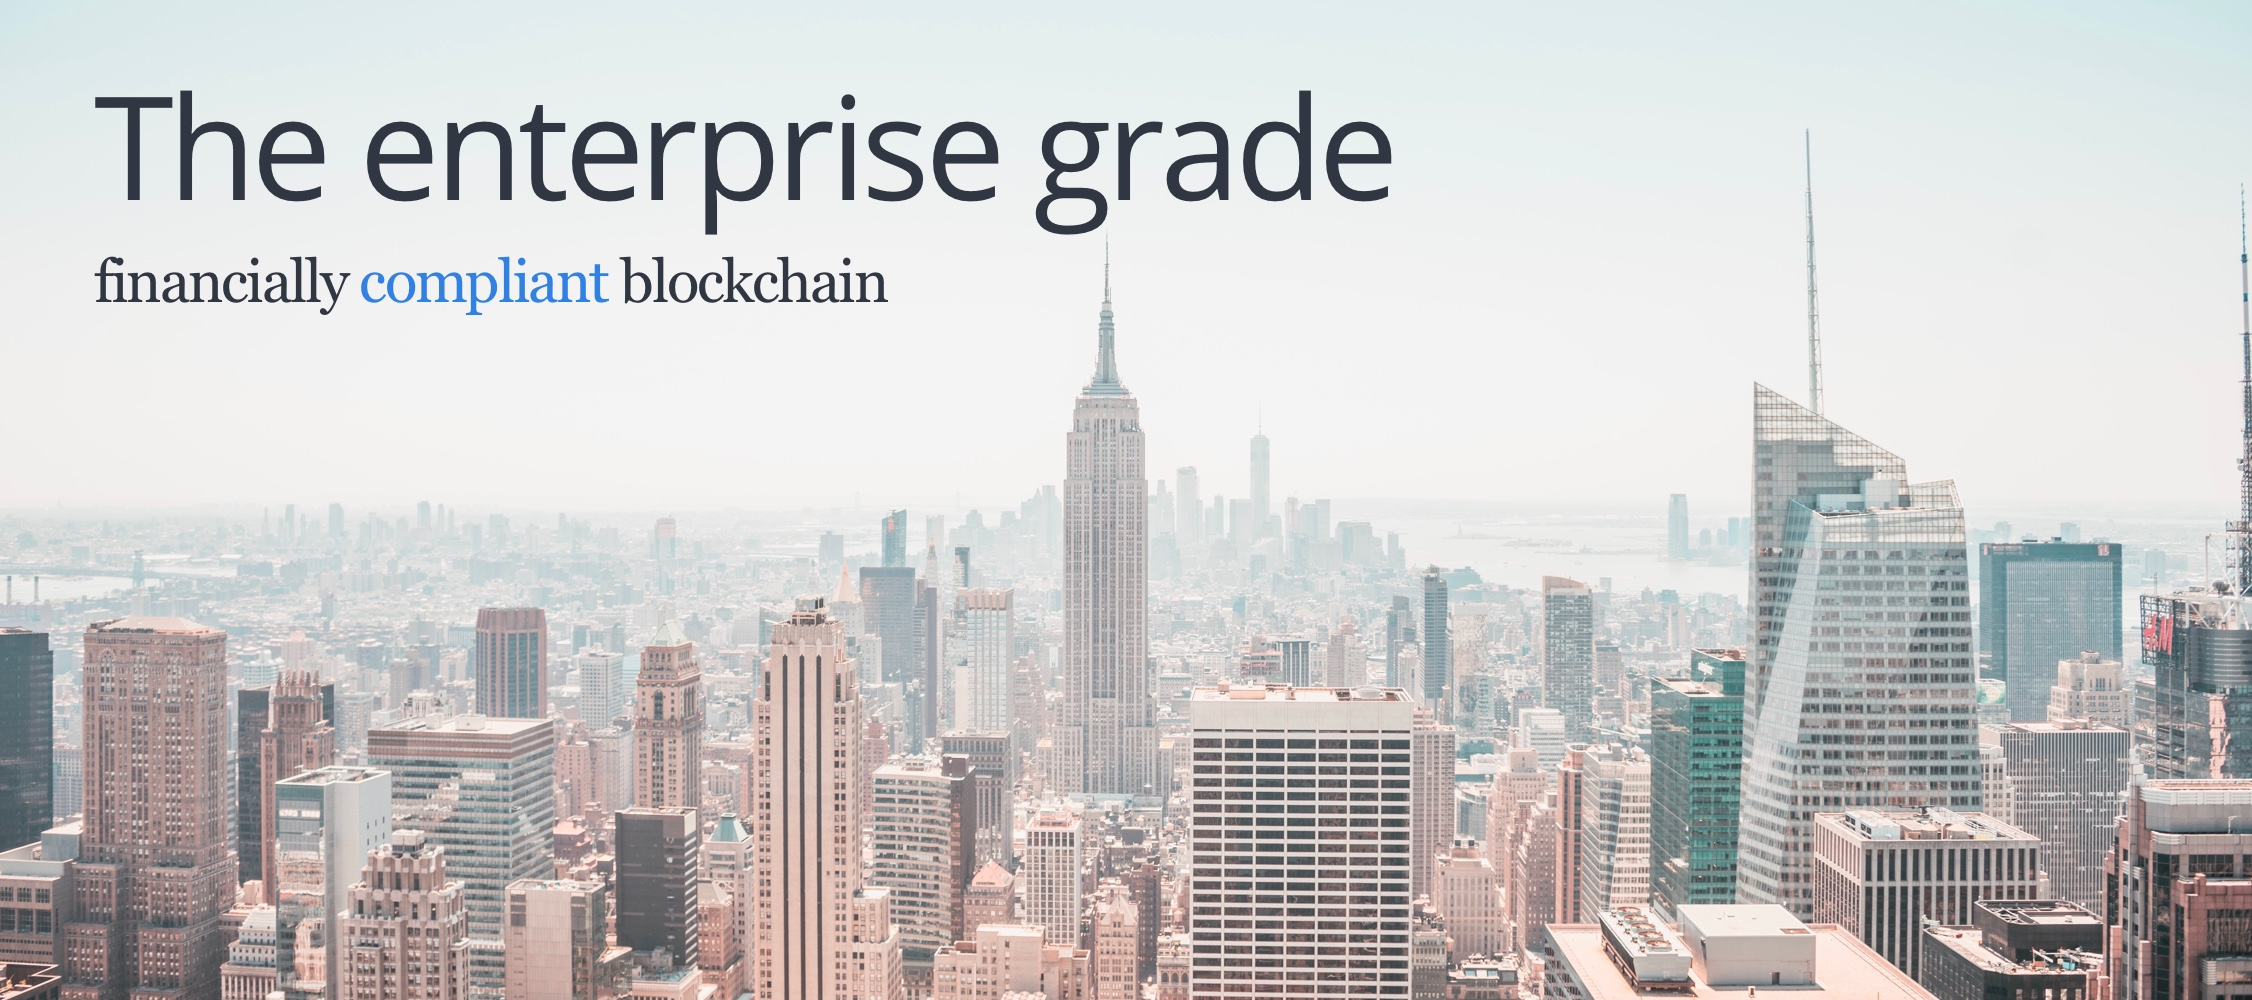
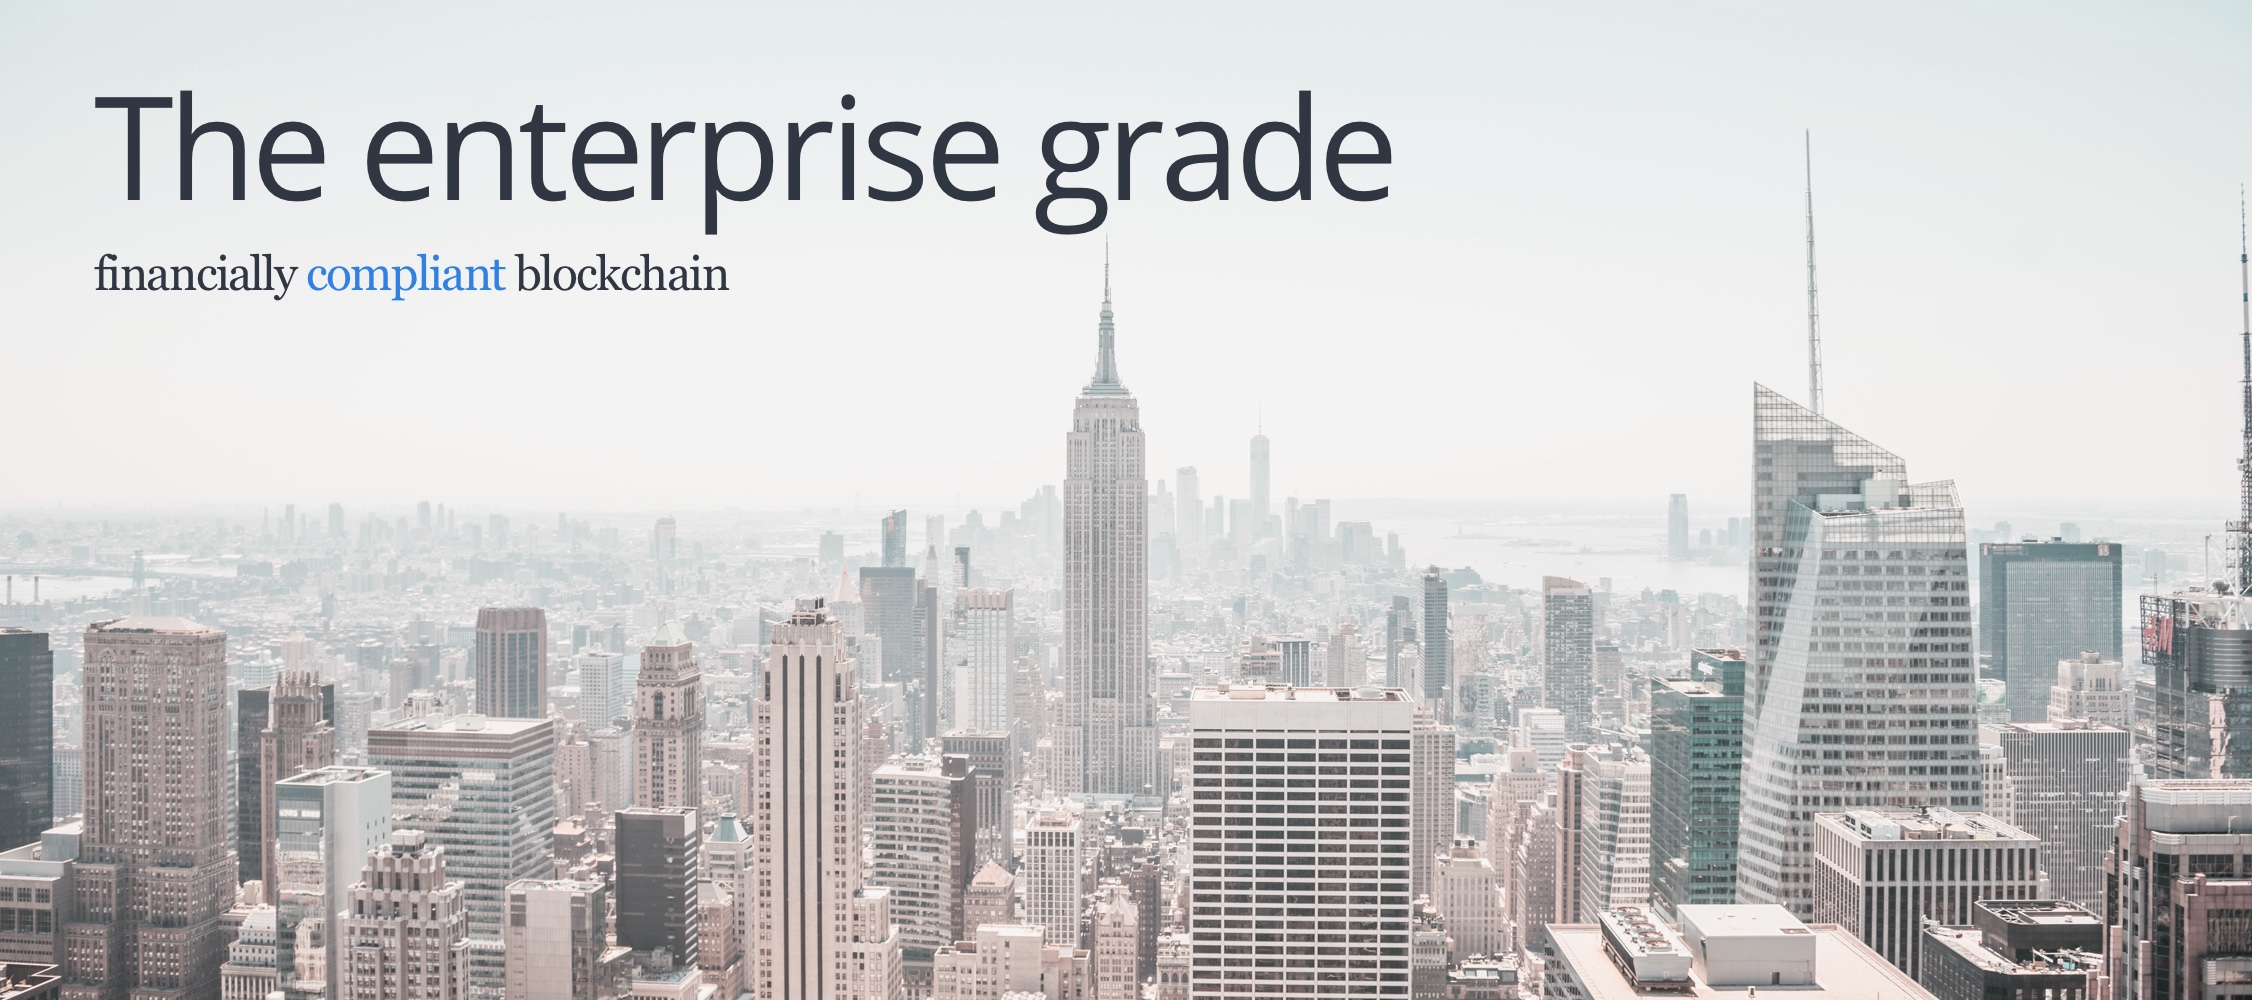
images and type

Changed region(s): [[0.0311, 0.248, 0.4041, 0.31], [0.9325, 0.62, 0.9636, 0.651]]

diff --git a/src/pages/home.tsx b/src/pages/home.tsx
@@ -22,7 +22,7 @@ const Home: React.FC = () => {
           <h3 className='sub-title'>{txt.getInvolvedStrapline}</h3>
           <div className='three-column-grid'>
             <div>
-              <img src='./images/launchOnWorbli.jpg' alt=''/>
+              <img src='./images/launchOnWorbli.png' alt=''/>
               <h4 className='item-title'>{txt.joinCardOneTitle}</h4>
               <p>{cpy.joinCardOneIntro}</p>
               <ul>
@@ -31,7 +31,7 @@ const Home: React.FC = () => {
               </ul>
             </div>
             <div>
-            <img src='./images/partnerWithUs.jpg' alt=''/>
+            <img src='./images/partnerWithUs.png' alt=''/>
               <h4 className='item-title'>{txt.joinCardTwoTitle}</h4>
               <p>{cpy.joinCardTwoIntro}</p>
               <ul>
@@ -39,7 +39,7 @@ const Home: React.FC = () => {
               </ul>
             </div>
             <div>
-            <img src='./images/openAnAccount.jpg' alt=''/>
+            <img src='./images/openAnAccount.png' alt=''/>
               <h4 className='item-title'>{txt.joinCardThreeTitle}</h4>
               <p>{cpy.joinCardThreeIntro}</p>
               <ul>

diff --git a/src/scss/themes/typography.scss b/src/scss/themes/typography.scss
@@ -23,6 +23,7 @@ $subtitle-font: 'Merriweather', serif;
     font-size: 22px;
     font-weight: 400;
     padding-bottom: 100px;
+    letter-spacing: -0.8px;
 }
 p {
     line-height: 20px;
@@ -49,3 +50,4 @@ li::before {
     background-repeat: no-repeat;
     background-position: center;
 }
+
